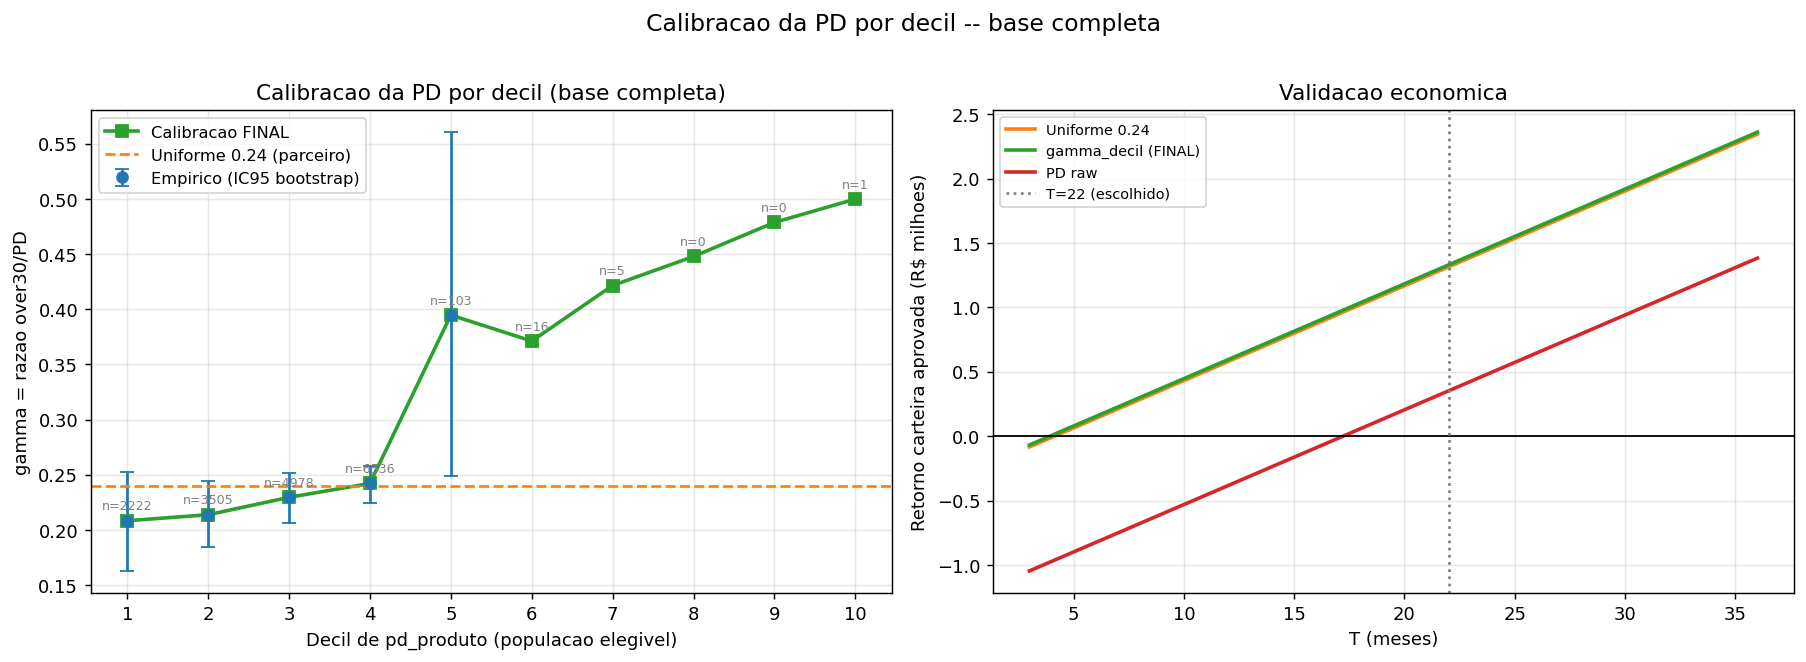
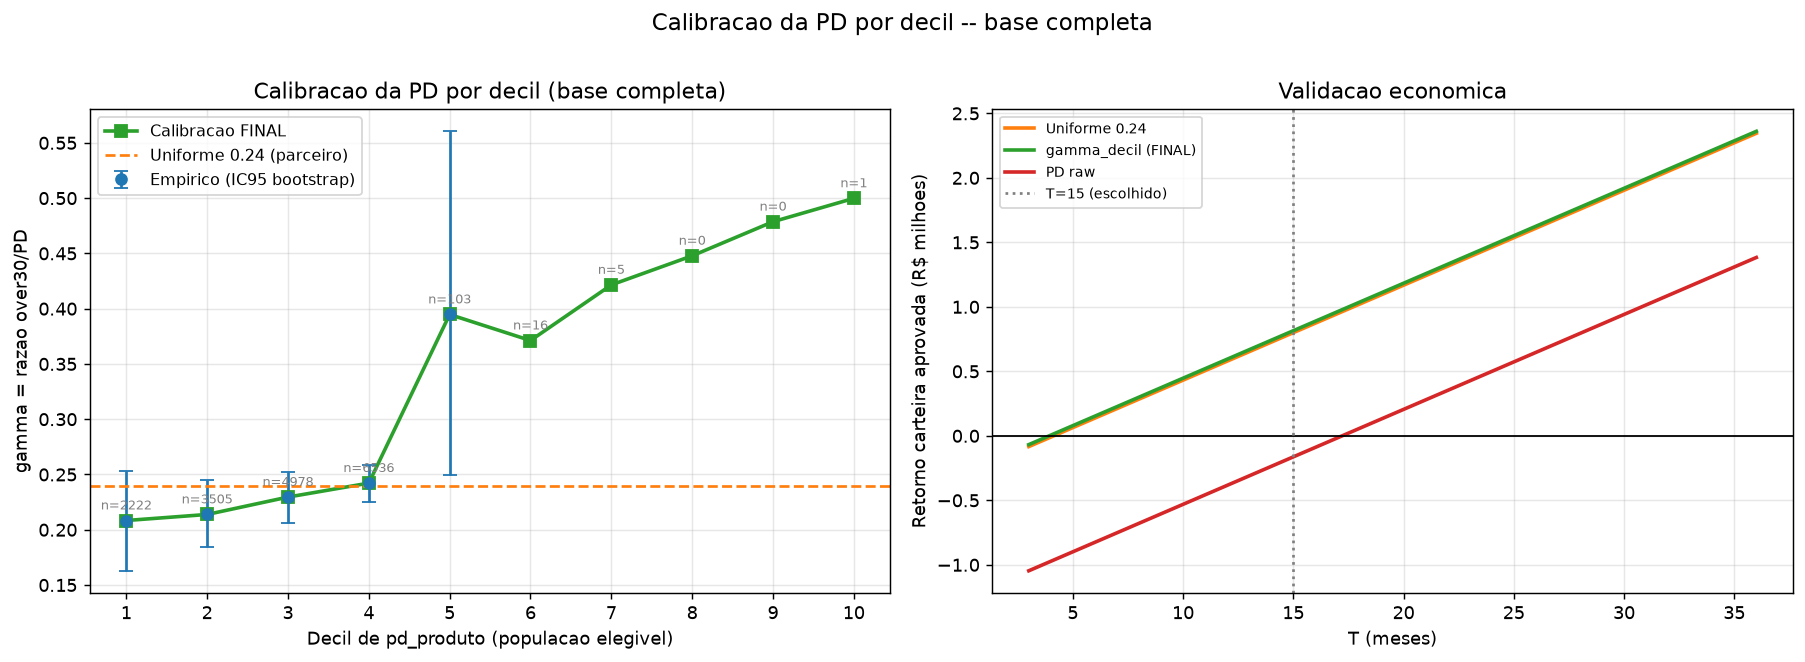
fix: corrects calibration issue in the pipeline

diff --git a/apps/scripts/calibrar_pd.py b/apps/scripts/calibrar_pd.py
@@ -23,7 +23,28 @@ from pathlib import Path
 import numpy as np
 import pandas as pd
 
-ROOT = Path(__file__).resolve().parent.parent
+
+def _encontrar_raiz() -> Path:
+    """Localiza a raiz do projeto subindo a árvore a partir deste arquivo.
+
+    A raiz do repositório é o diretório que contém a pasta ``apps/``. Como este
+    script vive em ``apps/scripts/``, basta achar o ancestral chamado ``apps`` e
+    devolver o pai dele. Resolver assim — em vez de contar níveis fixos com
+    ``parent.parent...`` — torna o caminho imune a mudanças de profundidade
+    deste script (ex.: mover ``scripts/`` para dentro de ``apps/``).
+
+    Returns:
+        O ``Path`` da raiz do projeto. Como fallback (caso nenhum ancestral
+        ``apps`` exista), retorna o bisavô deste arquivo (``apps/scripts/`` -> raiz).
+    """
+    aqui = Path(__file__).resolve()
+    for ancestral in aqui.parents:
+        if ancestral.name == "apps":
+            return ancestral.parent
+    return aqui.parent.parent.parent
+
+
+ROOT = _encontrar_raiz()
 TABELA_GAMMA = ROOT / "data" / "csv" / "tabela_gamma_decil.csv"
 INPUT_DIR = ROOT / "data" / "parquet"
 CACHE_DIR = ROOT / "data" / "cache"

diff --git a/apps/backend/run_server.py b/apps/backend/run_server.py
@@ -170,11 +170,22 @@ if __name__ == "__main__":
     frontend_proc = _start_frontend()
     _print_urls(frontend_ok=frontend_proc is not None)
 
+    # O pipeline importa código de apps/algoritmo_simplex e apps/scripts
+    # (calibração, clustering). Incluí-los no reload garante que edições nesses
+    # módulos reiniciem o servidor — senão o processo segue com a versão antiga
+    # em memória.
+    apps_dir = BACKEND_DIR.parent
+    reload_dirs = [
+        str(BACKEND_DIR),
+        str(apps_dir / "algoritmo_simplex"),
+        str(apps_dir / "scripts"),
+    ]
+
     uvicorn.run(
         "main:app",
         host=APP_HOST_BIND,
         port=APP_PORT,
         reload=True,
-        reload_dirs=[str(BACKEND_DIR)],
+        reload_dirs=reload_dirs,
         app_dir=str(BACKEND_DIR),
     )

diff --git a/apps/scripts/analise_alavancagem.py b/apps/scripts/analise_alavancagem.py
@@ -16,8 +16,8 @@ import matplotlib.ticker as mticker
 import pathlib
 
 # ── Configuração ──────────────────────────────────────────────────────────────
-DATA_DIR = pathlib.Path(__file__).resolve().parent.parent / "data"
-OUTPUT_DIR = pathlib.Path(__file__).resolve().parent.parent / "artefatos" / "figuras"
+DATA_DIR = pathlib.Path(__file__).resolve().parent.parent.parent / "data"
+OUTPUT_DIR = pathlib.Path(__file__).resolve().parent.parent.parent / "artefatos" / "figuras"
 OUTPUT_DIR.mkdir(parents=True, exist_ok=True)
 
 FAIXAS_SCORE = [100, 600, 700, 800, 850, 900, 960]

diff --git a/apps/scripts/analise_03_correlacao_cp_pd.py b/apps/scripts/analise_03_correlacao_cp_pd.py
@@ -15,8 +15,8 @@ import matplotlib.pyplot as plt
 import numpy as np
 import pathlib
 
-DATA_DIR = pathlib.Path(__file__).resolve().parent.parent / "data"
-OUTPUT_DIR = pathlib.Path(__file__).resolve().parent.parent / "artefatos" / "figuras"
+DATA_DIR = pathlib.Path(__file__).resolve().parent.parent.parent / "data"
+OUTPUT_DIR = pathlib.Path(__file__).resolve().parent.parent.parent / "artefatos" / "figuras"
 OUTPUT_DIR.mkdir(parents=True, exist_ok=True)
 
 SAFRAS = ["M1", "M2", "M3"]

diff --git a/apps/scripts/analise_grafica.py b/apps/scripts/analise_grafica.py
@@ -135,6 +135,6 @@ ax.spines['right'].set_visible(False)
 plt.tight_layout()
 
 # Salvar
-output_path = Path(__file__).parent.parent / 'artefatos' / 'assets' / 'analise_grafica_otimizacao.png'
+output_path = Path(__file__).parent.parent.parent / 'artefatos' / 'assets' / 'analise_grafica_otimizacao.png'
 plt.savefig(output_path, dpi=200, bbox_inches='tight', facecolor='white')
 print(f"Gráfico salvo em: {output_path}")

diff --git a/apps/scripts/analise_sanidade_clusters.py b/apps/scripts/analise_sanidade_clusters.py
@@ -21,7 +21,7 @@ import matplotlib
 matplotlib.use("Agg")
 import matplotlib.pyplot as plt
 
-ROOT = Path(__file__).resolve().parent.parent
+ROOT = Path(__file__).resolve().parent.parent.parent
 DATA_DIR = ROOT / "data" / "csv"
 JSON_DIR = ROOT / "apps" / "algoritmo_simplex" / "input"
 FIG_DIR = ROOT / "artefatos" / "figuras"

diff --git a/apps/scripts/setup_tabela_gamma.py b/apps/scripts/setup_tabela_gamma.py
@@ -33,7 +33,7 @@ import matplotlib.pyplot as plt
 import numpy as np
 import pyarrow.parquet as pq
 
-ROOT = Path(__file__).resolve().parent.parent
+ROOT = Path(__file__).resolve().parent.parent.parent
 DATA_DIR = ROOT / "data" / "parquet"
 FIG_DIR = ROOT / "artefatos" / "figuras"
 FIG_DIR.mkdir(parents=True, exist_ok=True)

diff --git a/apps/scripts/analise_z_vs_k.py b/apps/scripts/analise_z_vs_k.py
@@ -26,7 +26,7 @@ import time
 from pathlib import Path
 from datetime import datetime
 
-ROOT = Path(__file__).resolve().parent.parent
+ROOT = Path(__file__).resolve().parent.parent.parent
 LOG_DIR = ROOT / "logs"
 LOG_DIR.mkdir(parents=True, exist_ok=True)
 

diff --git a/apps/scripts/reduce_csv.py b/apps/scripts/reduce_csv.py
@@ -20,7 +20,7 @@ import sys
 from pathlib import Path
 import pandas as pd
 
-ROOT = Path(__file__).resolve().parent.parent
+ROOT = Path(__file__).resolve().parent.parent.parent
 
 if len(sys.argv) < 2 or len(sys.argv) > 3:
     print("Uso:")

diff --git a/apps/scripts/utils/convert_parquet_to_csv.py b/apps/scripts/utils/convert_parquet_to_csv.py
@@ -23,7 +23,7 @@ import subprocess
 from pathlib import Path
 import pandas as pd
 
-ROOT = Path(__file__).resolve().parent.parent
+ROOT = Path(__file__).resolve().parent.parent.parent.parent
 
 args = sys.argv[1:]
 
